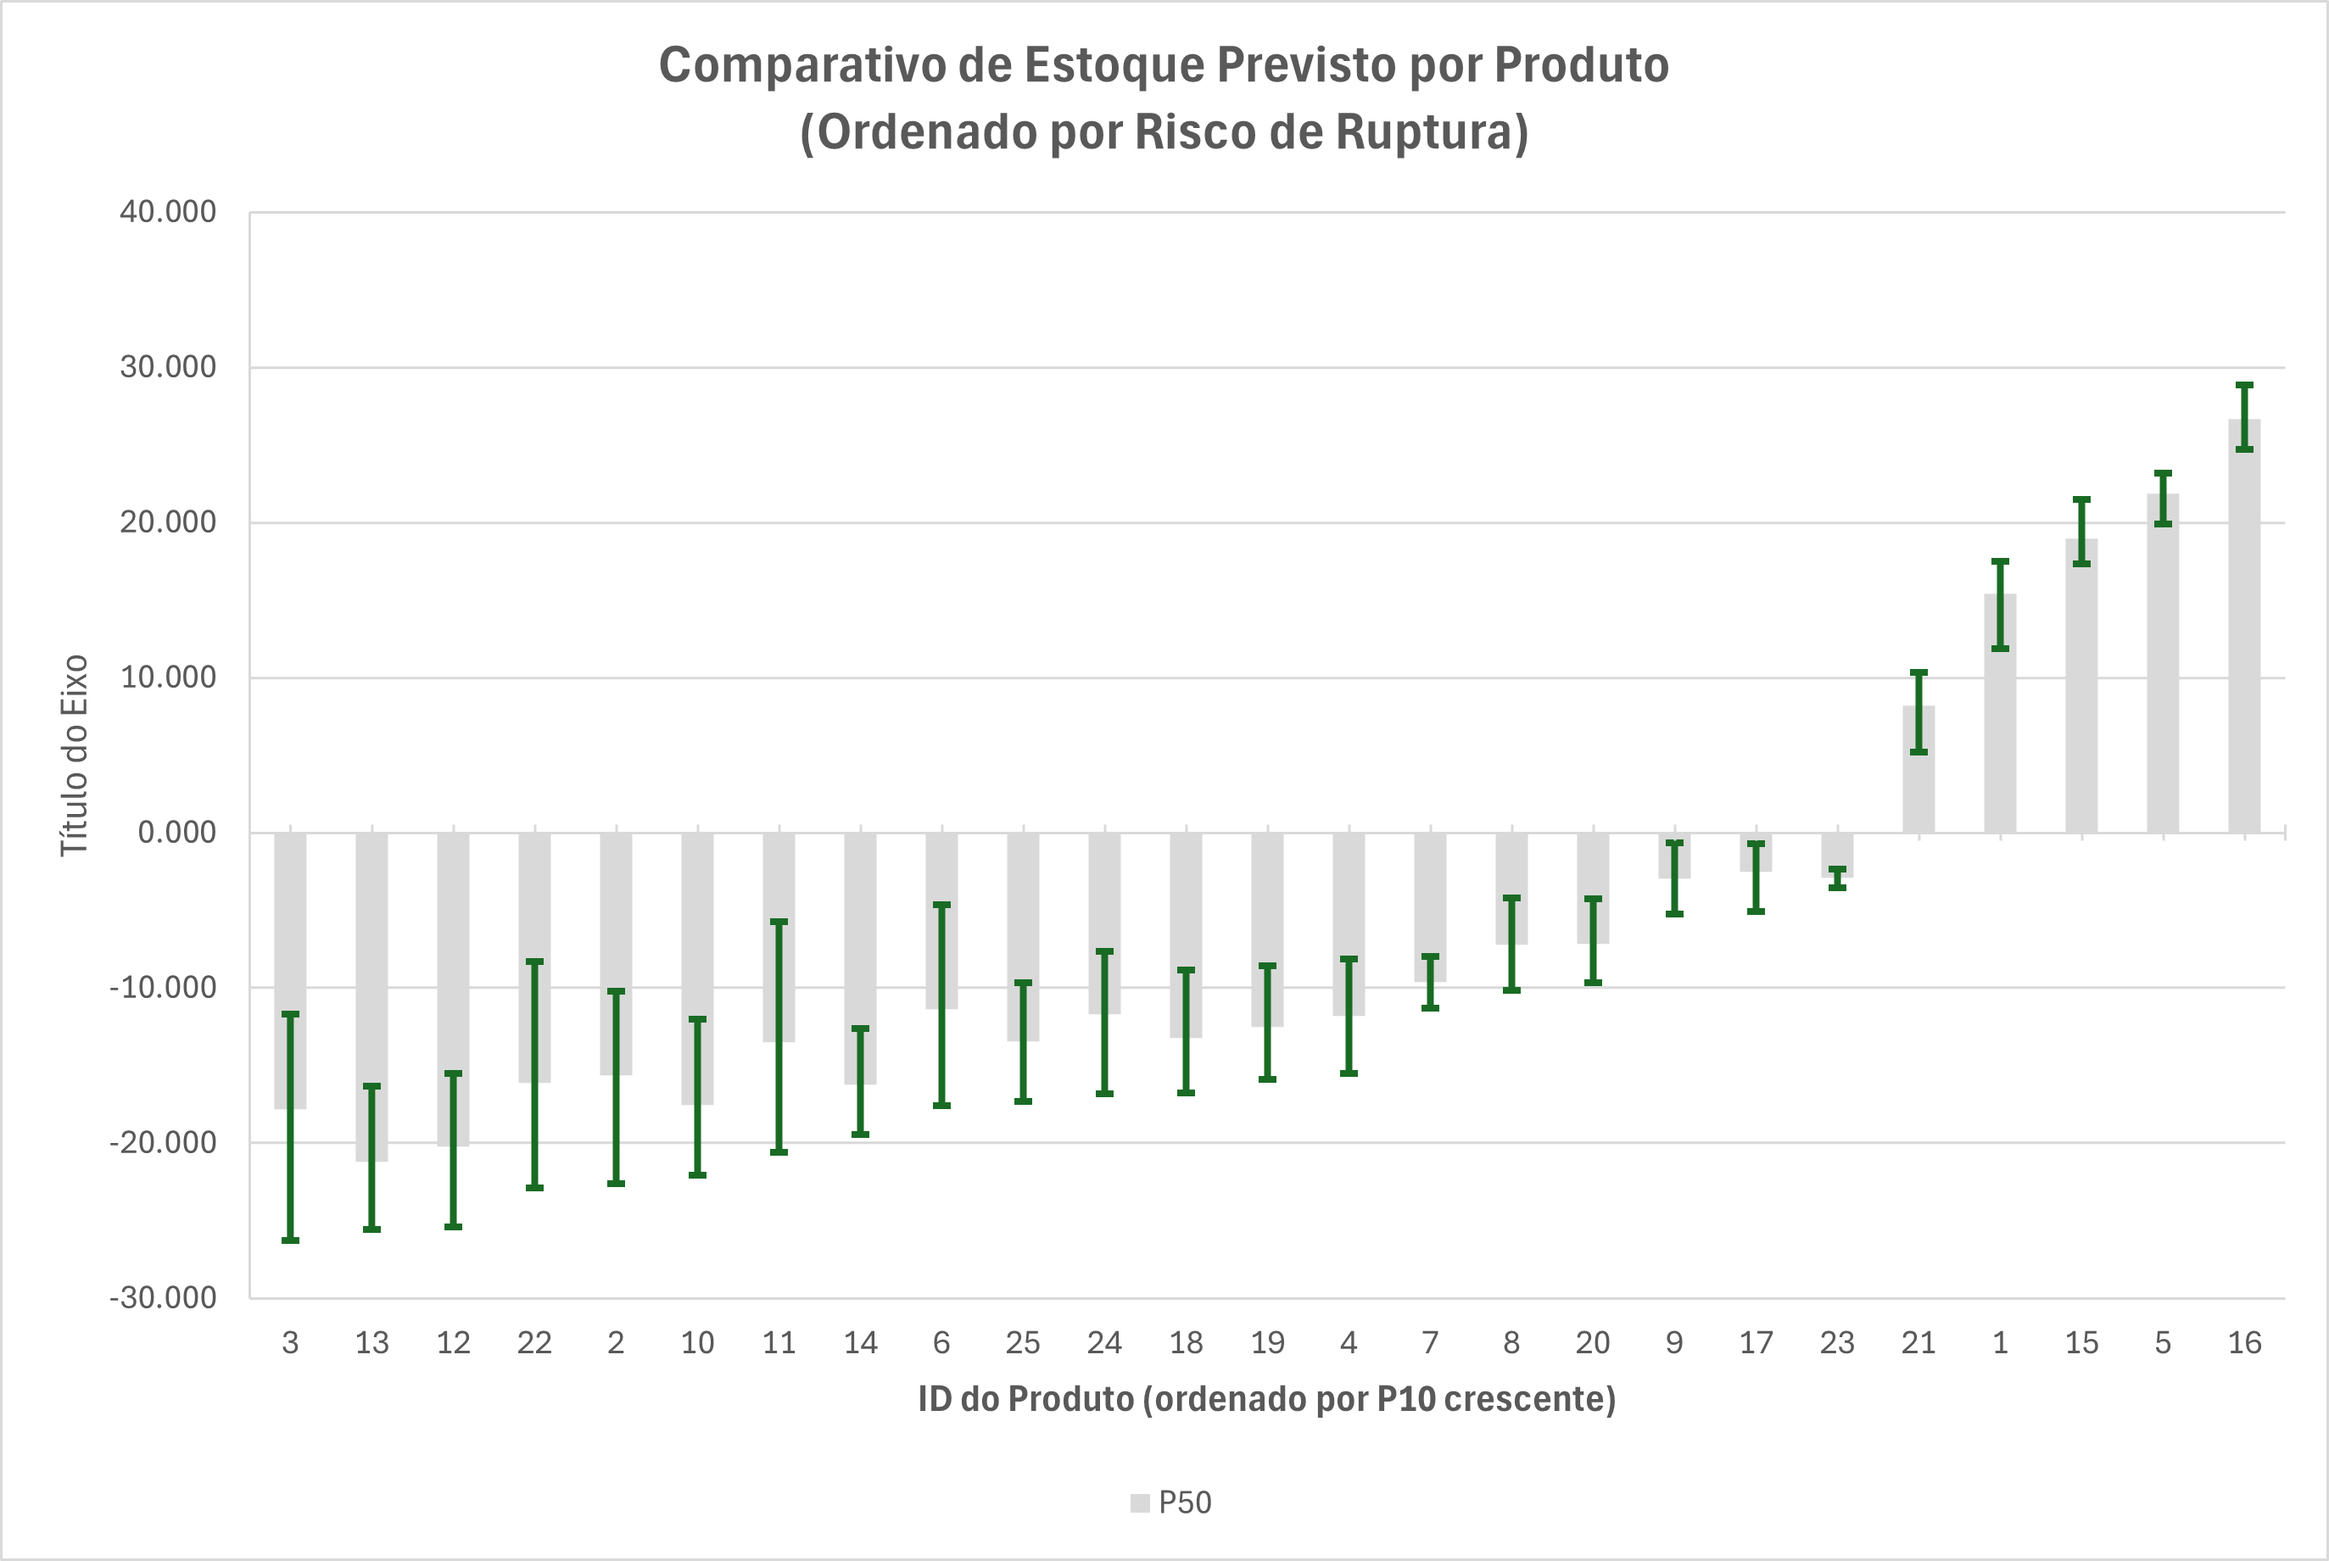
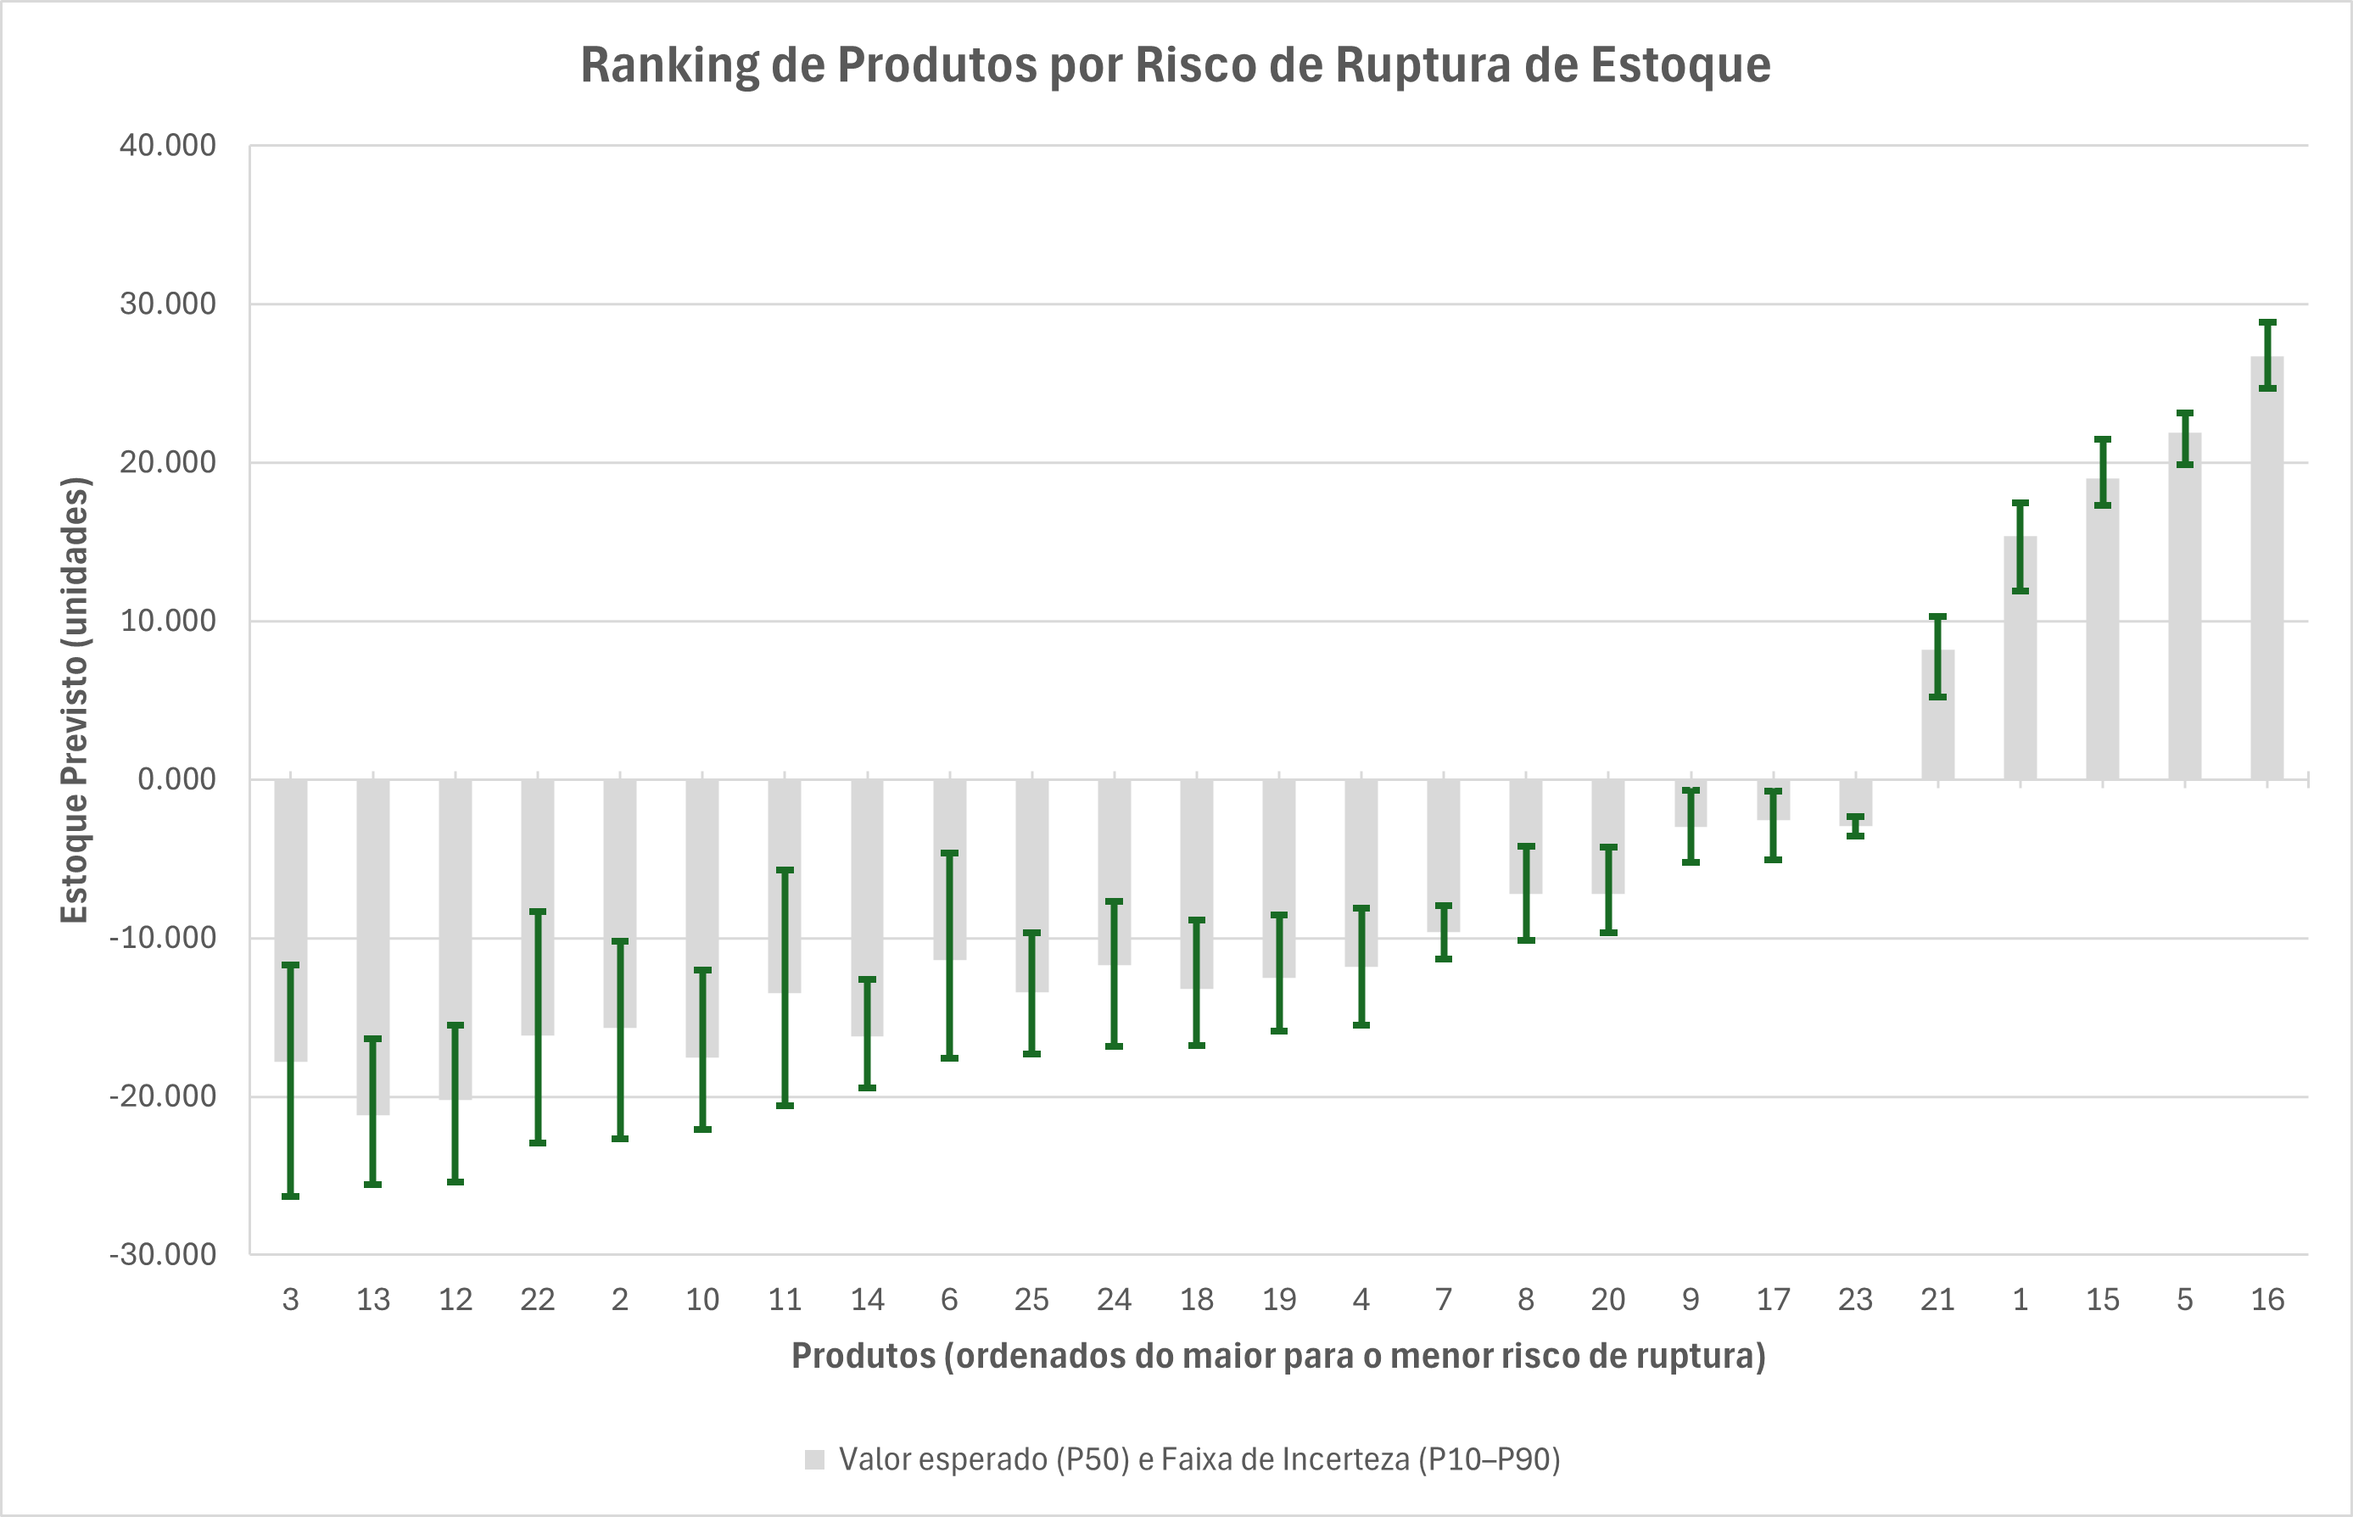
feta: generating the graphs

diff --git a/README.md b/README.md
@@ -338,8 +338,8 @@ O SageMaker Canvas gerou previsões probabilísticas para cada produto, incluind
 
 A previsão de estoque obtida pelo modelo de predição é referente a **1 dia**, ou seja, ao dia **20/01/2024**, próximo dia na série temporal, e é apresentada na tabela abaixo:
 
-| ID do Produto | P10 | P50 | P90 | Média |
-| :---: | :---: | ---: | ---: | ---: |
+| ID do Produto | Dia | P10 | P50 | P90 | Média |
+| :---: | :---: | :---: | ---: | ---: | ---: |
 | 1 | 2024-01-20 | 11.870 | 15.396 | 17.470 | 14.905 |  |  |  |  |  |  |  |  | 
 | 2 | 2024-01-20 | -22.645 | -15.637 | -10.207 | -16.021 |  |  |  |  |  |  |  |  | 
 | 3 | 2024-01-20 | -26.289 | -17.811 | -11.696 | -18.653 |  |  |  |  |  |  |  |  | 
@@ -437,7 +437,8 @@ Essa abordagem é amplamente utilizada em projetos reais de **Supply Chain e For
 ### Previsão de Estoque para o Próximo Dia (P10–P90 com Mediana P50)
 
 - Linha central: P50
-- Faixa sombreada: Intervalo de incerteza (P10–P90)
+- Faixa sombreada ou formada pelas linhas superior P90 e inferior P10: Forma o intervalo de incerteza (P10–P90)
+    - Observação: **P10-P90** é a região, ou faixa de valores, dentro do intervalo de P10 até P90.
 - Eixo Y com referência em zero
 - Produtos ordenados por risco
 
@@ -452,17 +453,41 @@ Essa abordagem é amplamente utilizada em projetos reais de **Supply Chain e For
 <img src="images/graph_forecast_products_line.png" style="max-width:800px;min-width:400px;width:80%">
 </div>
 
-📷 Figura 1 – (Gráfico de linhas). Ordenação baseada no percentil P10, que representa o cenário pessimista da previsão.
+📷 Figura x – Ordenação baseada no percentil P10, que representa o cenário pessimista da previsão.
+
+#### Gráfico Combinado com área empilhada e linha
+
+<!--Markdown
+![Previsão de estoque com intervalo de incerteza](/images/graph_forecast_products_line.png)
+-->
+
+<div style="text-align: center;">
+<img src="images/graph_forecast_products_uncertainty_range.png" style="max-width:800px;min-width:400px;width:80%">
+</div>
+
+📷 Figura x – A área representa a faixa de variação esperada da previsão, enquanto a linha indica o valor central (P50).
+
+#### Gráfico de barras agrupadas com barras de erros
+
+<!--Markdown
+![Previsão de estoque com intervalo de incerteza](/images/graph_forecast_products_line.png)
+-->
+
+<div style="text-align: center;">
+<img src="images/bar_chart_forecast_products.png" style="max-width:800px;min-width:400px;width:80%">
+</div>
+
+📷 Figura x – Produtos com maior risco de ruptura apresentam valores negativos ou próximos de zero no percentil P10.
 
 ---
 
 ### Tabela de Risco de Ruptura
 
-| ID do Produto | P10 (pessimista) | P50 (mediana) | P90 (otimista) | Estoque Previsto (P50 ajustado) | Risco de Ruptura |
-| :---: | :---: | :---: | :---: | :---: | :---: |
-| 2 | 0 | 0 | 0 | 0 | 🔴 Alto |
-| 3 | 0 | 0 | 0 | 0 | 🔴 Alto |
-| 5 | 0 | 0 | 0 | 22 | 🟢 Baixo |
+| ID do Produto | P10 (pessimista) | P50 (mediana) | P90 (otimista) | Estoque Previsto (P10 ajustado) | Estoque Previsto (P50 ajustado) | Estoque Previsto (P90 ajustado) | Risco de Ruptura |
+| :---: | :---: | :---: | :---: | :---: | :---: | :---: | :---: |
+| 2 | 0 | 0 | 0 | 0 | 0 | 0 | 0 | 🔴 Alto |
+| 3 | 0 | 0 | 0 | 0 | 0 | 0 | 0 | 🔴 Alto |
+| 5 | 0 | 0 | 0 | 22 | 0 | 0 | 0 | 🟢 Baixo |
 
 
 📷 Tabela x – Tabela de risco por produto
